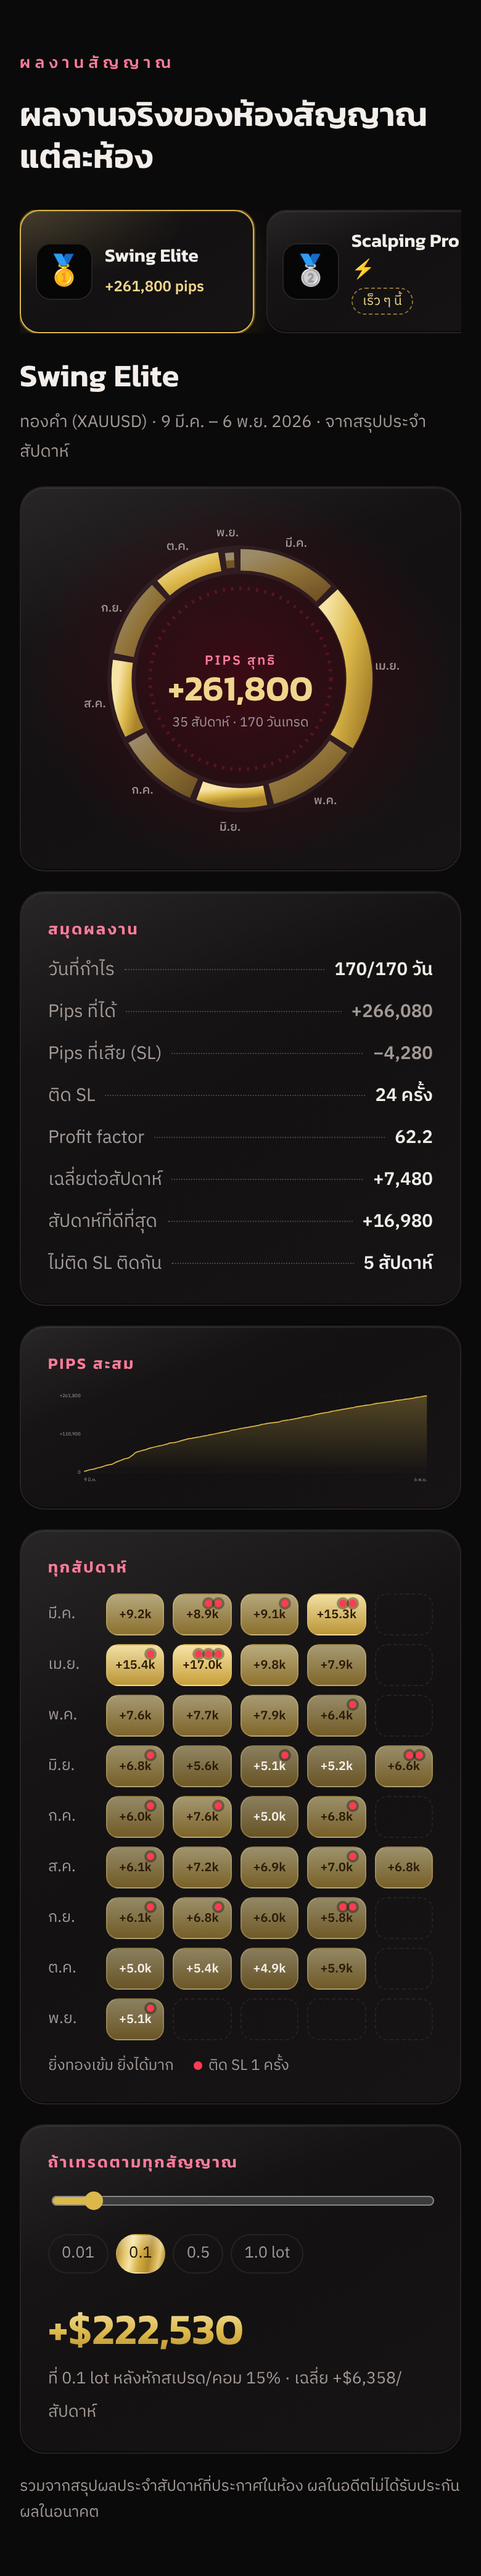
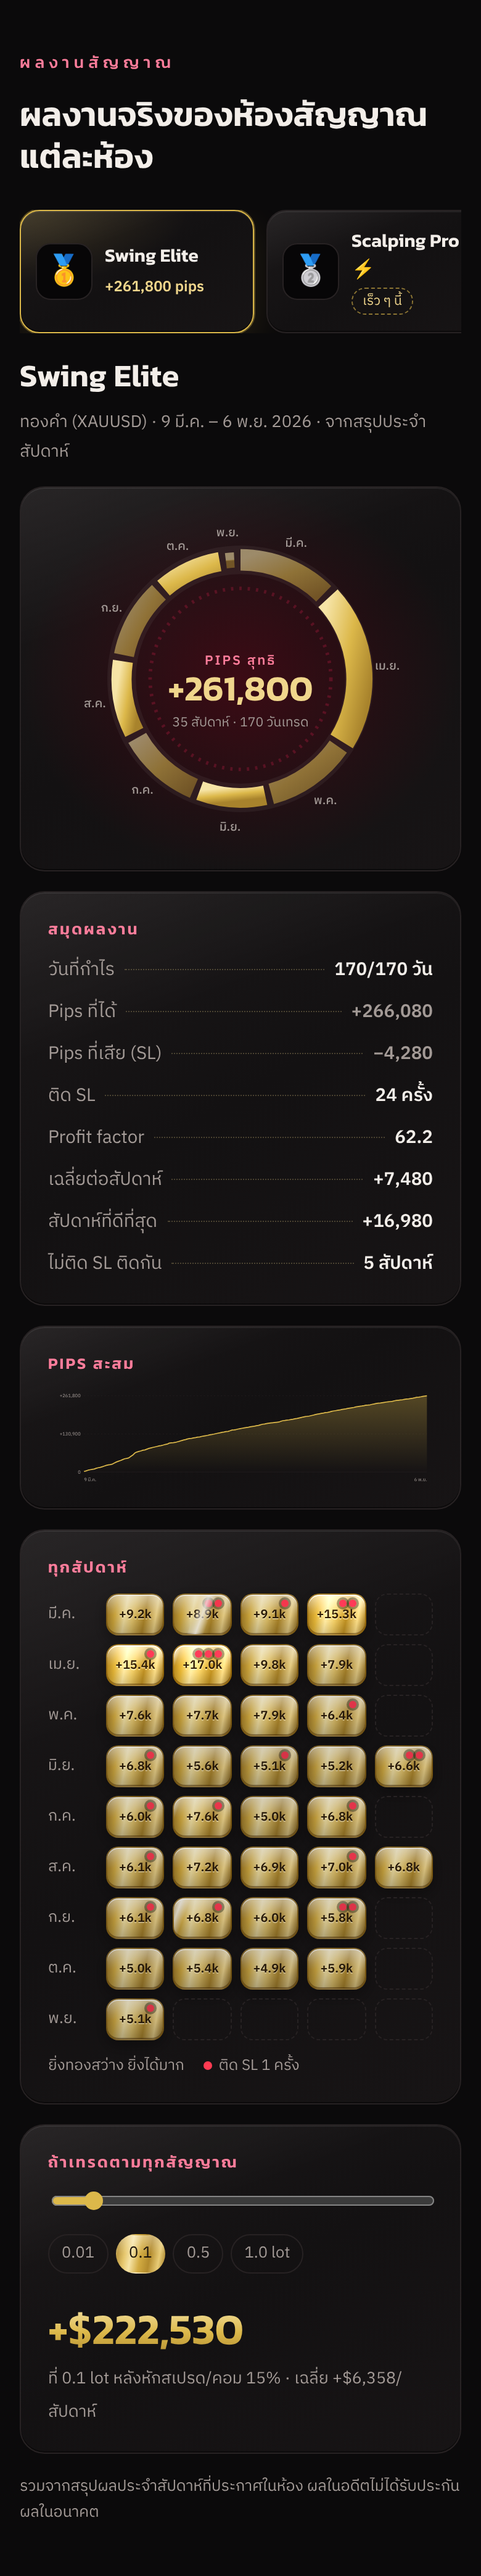
Signal results mockup: polished gold week tiles
Week tiles get a metallic gold finish: a bright band across the top, a gold sweep,
a lit edge and a light that passes over each tile in turn. Stronger weeks shine
brighter; empty slots stay plain.

Claude-Session: https://claude.ai/code/session_01UfufCew2iWNJoJS5dCwX33

Changed region(s): [[0.2154, 0.5918, 0.8923, 0.8098]]

diff --git a/mockups/signals-mock.html b/mockups/signals-mock.html
@@ -1,5 +1,6 @@
 <!doctype html>
 <!-- Design mockup for the signal results section. Copy into website/ and open over HTTP to view; not part of the site. -->
+<!-- Design mockup for the signal results section. Copy into website/ and open over HTTP to view; not part of the site. -->
 <html lang="th"><head><meta charset="utf-8"><meta name="viewport" content="width=device-width, initial-scale=1">
 <link href="https://fonts.googleapis.com/css2?family=IBM+Plex+Sans+Thai:wght@400;500;600&family=Kanit:wght@500;600&display=swap" rel="stylesheet">
 <link rel="stylesheet" href="css/style.css">
@@ -33,13 +34,24 @@ body { padding: 40px 0; }
 .ss-hrow { display: grid; grid-template-columns: 58px repeat(5, minmax(0, 1fr)) 84px; gap: 7px; align-items: center; }
 .ss-hrow > small { color: var(--muted); font-size: .78rem; }
 .ss-hrow > em { font-style: normal; text-align: right; font-weight: 600; color: var(--accent-hi); font-size: .86rem; }
-.ss-w { position: relative; height: 40px; border-radius: 10px; display: grid; place-items: center; font-size: .74rem; font-weight: 600; color: #2a1a08;
-  background: linear-gradient(180deg, rgba(246, 228, 166, calc(var(--a) + .05)), rgba(200, 159, 58, var(--a))); border: 1px solid rgba(240, 214, 140, .25); }
-.ss-w.lo { color: var(--text); }
+.ss-w { position: relative; overflow: hidden; height: 40px; border-radius: 10px; display: grid; place-items: center; font-size: .74rem; font-weight: 700; color: #2a1a08;
+  text-shadow: 0 1px 0 rgba(255, 244, 210, .55);
+  /* polished gold: a bright band across the top, a metal sweep left to right; stronger weeks shine brighter */
+  background:
+    linear-gradient(180deg, rgba(255, 255, 255, .55) 0%, rgba(255, 255, 255, .12) 38%, rgba(255, 255, 255, 0) 52%, rgba(0, 0, 0, .18) 100%),
+    linear-gradient(100deg, #8f6a1c 0%, #d2ab42 18%, #f6e4a6 34%, #e6c76e 48%, #b38b2d 66%, #f0d68c 84%, #8f6a1c 100%);
+  border: 1px solid rgba(120, 82, 10, .7);
+  box-shadow: inset 0 1px 0 rgba(255, 255, 255, .7), inset 0 -1px 0 rgba(70, 40, 0, .45), 0 4px 12px rgba(0, 0, 0, .35);
+  filter: brightness(calc(.62 + var(--a) * .5)) saturate(calc(.8 + var(--a) * .35)); }
+.ss-w::after { content: ""; position: absolute; top: 0; bottom: 0; left: -40%; width: 30%; transform: skewX(-20deg);
+  background: linear-gradient(90deg, transparent, rgba(255, 255, 255, .75), transparent); animation: tileShine 6s ease-in-out infinite; animation-delay: var(--dl, 0s); }
+@keyframes tileShine { 0%, 70% { left: -40%; } 100% { left: 130%; } }
+.ss-w.lo { color: #2a1a08; }
 .ss-w i { position: absolute; top: 4px; right: 5px; display: flex; gap: 2px; }
 .ss-w i::before, .ss-w i::after { content: ""; }
 .ss-w .d { width: 6px; height: 6px; border-radius: 50%; background: #ff3b52; box-shadow: 0 0 0 2px rgba(0, 0, 0, .35); }
-.ss-w.ss-none { background: none; border-style: dashed; border-color: var(--line); }
+.ss-w.ss-none { background: none; border: 1px dashed var(--line); box-shadow: none; filter: none; }
+.ss-w.ss-none::after { display: none; }
 .ss-legend { display: flex; gap: 16px; margin-top: 10px; font-size: .76rem; color: var(--muted); align-items: center; }
 .ss-legend .d { display: inline-block; width: 7px; height: 7px; border-radius: 50%; background: #ff3b52; margin-right: 5px; }
 .ss-lot { display: grid; grid-template-columns: 1fr auto; gap: 18px; align-items: center; }
@@ -107,7 +119,7 @@ const ledger = [["วันที่กำไร", `${ds.filter((d) => d[1] - d[
 // heatmap: a row per month, a tile per week
 const byM = new Map(); weeks.forEach((w) => { const m = w.k.slice(0, 7); if (!byM.has(m)) byM.set(m, []); byM.get(m).push(w); });
 const heat = [...byM.entries()].map(([m, ws]) => `<div class="ss-hrow"><small>${mName(m)}</small>${[0, 1, 2, 3, 4].map((i) => { const w = ws[i]; if (!w) return `<div class="ss-w ss-none"></div>`; const a = (.25 + .75 * w.net / maxW).toFixed(2);
-  return `<div class="ss-w ${a < .5 ? "lo" : ""}" style="--a:${a}" title="${w.k}">${sg(w.net / 1000, 1)}k${w.sl ? `<i>${"<span class=d></span>".repeat(w.sl)}</i>` : ""}</div>`; }).join("")}<em>${sg(ws.reduce((s, w) => s + w.net, 0))}</em></div>`).join("");
+  return `<div class="ss-w ${a < .5 ? "lo" : ""}" style="--a:${a};--dl:${(-((i * 0.9 + Number(w.k.slice(8)) * 0.17) % 6)).toFixed(2)}s" title="${w.k}">${sg(w.net / 1000, 1)}k${w.sl ? `<i>${"<span class=d></span>".repeat(w.sl)}</i>` : ""}</div>`; }).join("")}<em>${sg(ws.reduce((s, w) => s + w.net, 0))}</em></div>`).join("");
 let cum = 0; const pts = ds.map((d) => ({ x: d[0], y: (cum += d[1] - d[2]) }));
 const cumSvg = OTMCharts.line(pts, { fmt: (x) => sg(x), dateFmt: (x) => new Date(x + "T12:00:00").toLocaleDateString("th-TH", { day: "numeric", month: "short" }), label: "cum", h: 220 });
 const medal = (k) => k === "hype" ? '<span class="ss-hype">HYPE</span>' : `<span style="font-size:1.5rem">${{ swing: "🥇", scalp: "🥈", rr: "🥉" }[k]}</span>`;
@@ -117,7 +129,7 @@ document.getElementById("ss").innerHTML = `
     <div class="ss-head"><h3>Swing Elite</h3><span>ทองคำ (XAUUSD) · 9 มี.ค. – 6 พ.ย. 2026 · จากสรุปประจำสัปดาห์</span></div>
     <div class="ss-top"><div class="ss-card ss-orbit">${orbit}</div><div class="ss-card ss-ledger"><h4>สมุดผลงาน</h4><ul>${ledger}</ul></div></div>
     <div class="ss-card ss-cum"><h4>Pips สะสม</h4>${cumSvg}</div>
-    <div class="ss-card"><h4>ทุกสัปดาห์</h4><div class="ss-heat">${heat}</div><div class="ss-legend"><span>ยิ่งทองเข้ม ยิ่งได้มาก</span><span><span class="d"></span>ติด SL 1 ครั้ง</span></div></div>
+    <div class="ss-card"><h4>ทุกสัปดาห์</h4><div class="ss-heat">${heat}</div><div class="ss-legend"><span>ยิ่งทองสว่าง ยิ่งได้มาก</span><span><span class="d"></span>ติด SL 1 ครั้ง</span></div></div>
     <div class="ss-card ss-lot"><div><h4>ถ้าเทรดตามทุกสัญญาณ</h4><input type="range" min="1" max="100" value="10"><div class="ss-chips"><span>0.01</span><span class="on">0.1</span><span>0.5</span><span>1.0 lot</span></div></div>
       <div class="out"><b>+$${n(net * 10 * 0.1 * 0.85)}</b><small>ที่ 0.1 lot หลังหักสเปรด/คอม 15% · เฉลี่ย +$${n(net / weeks.length * 10 * 0.1 * 0.85)}/สัปดาห์</small></div></div>
     <p class="ss-note">รวมจากสรุปผลประจำสัปดาห์ที่ประกาศในห้อง ผลในอดีตไม่ได้รับประกันผลในอนาคต</p>
